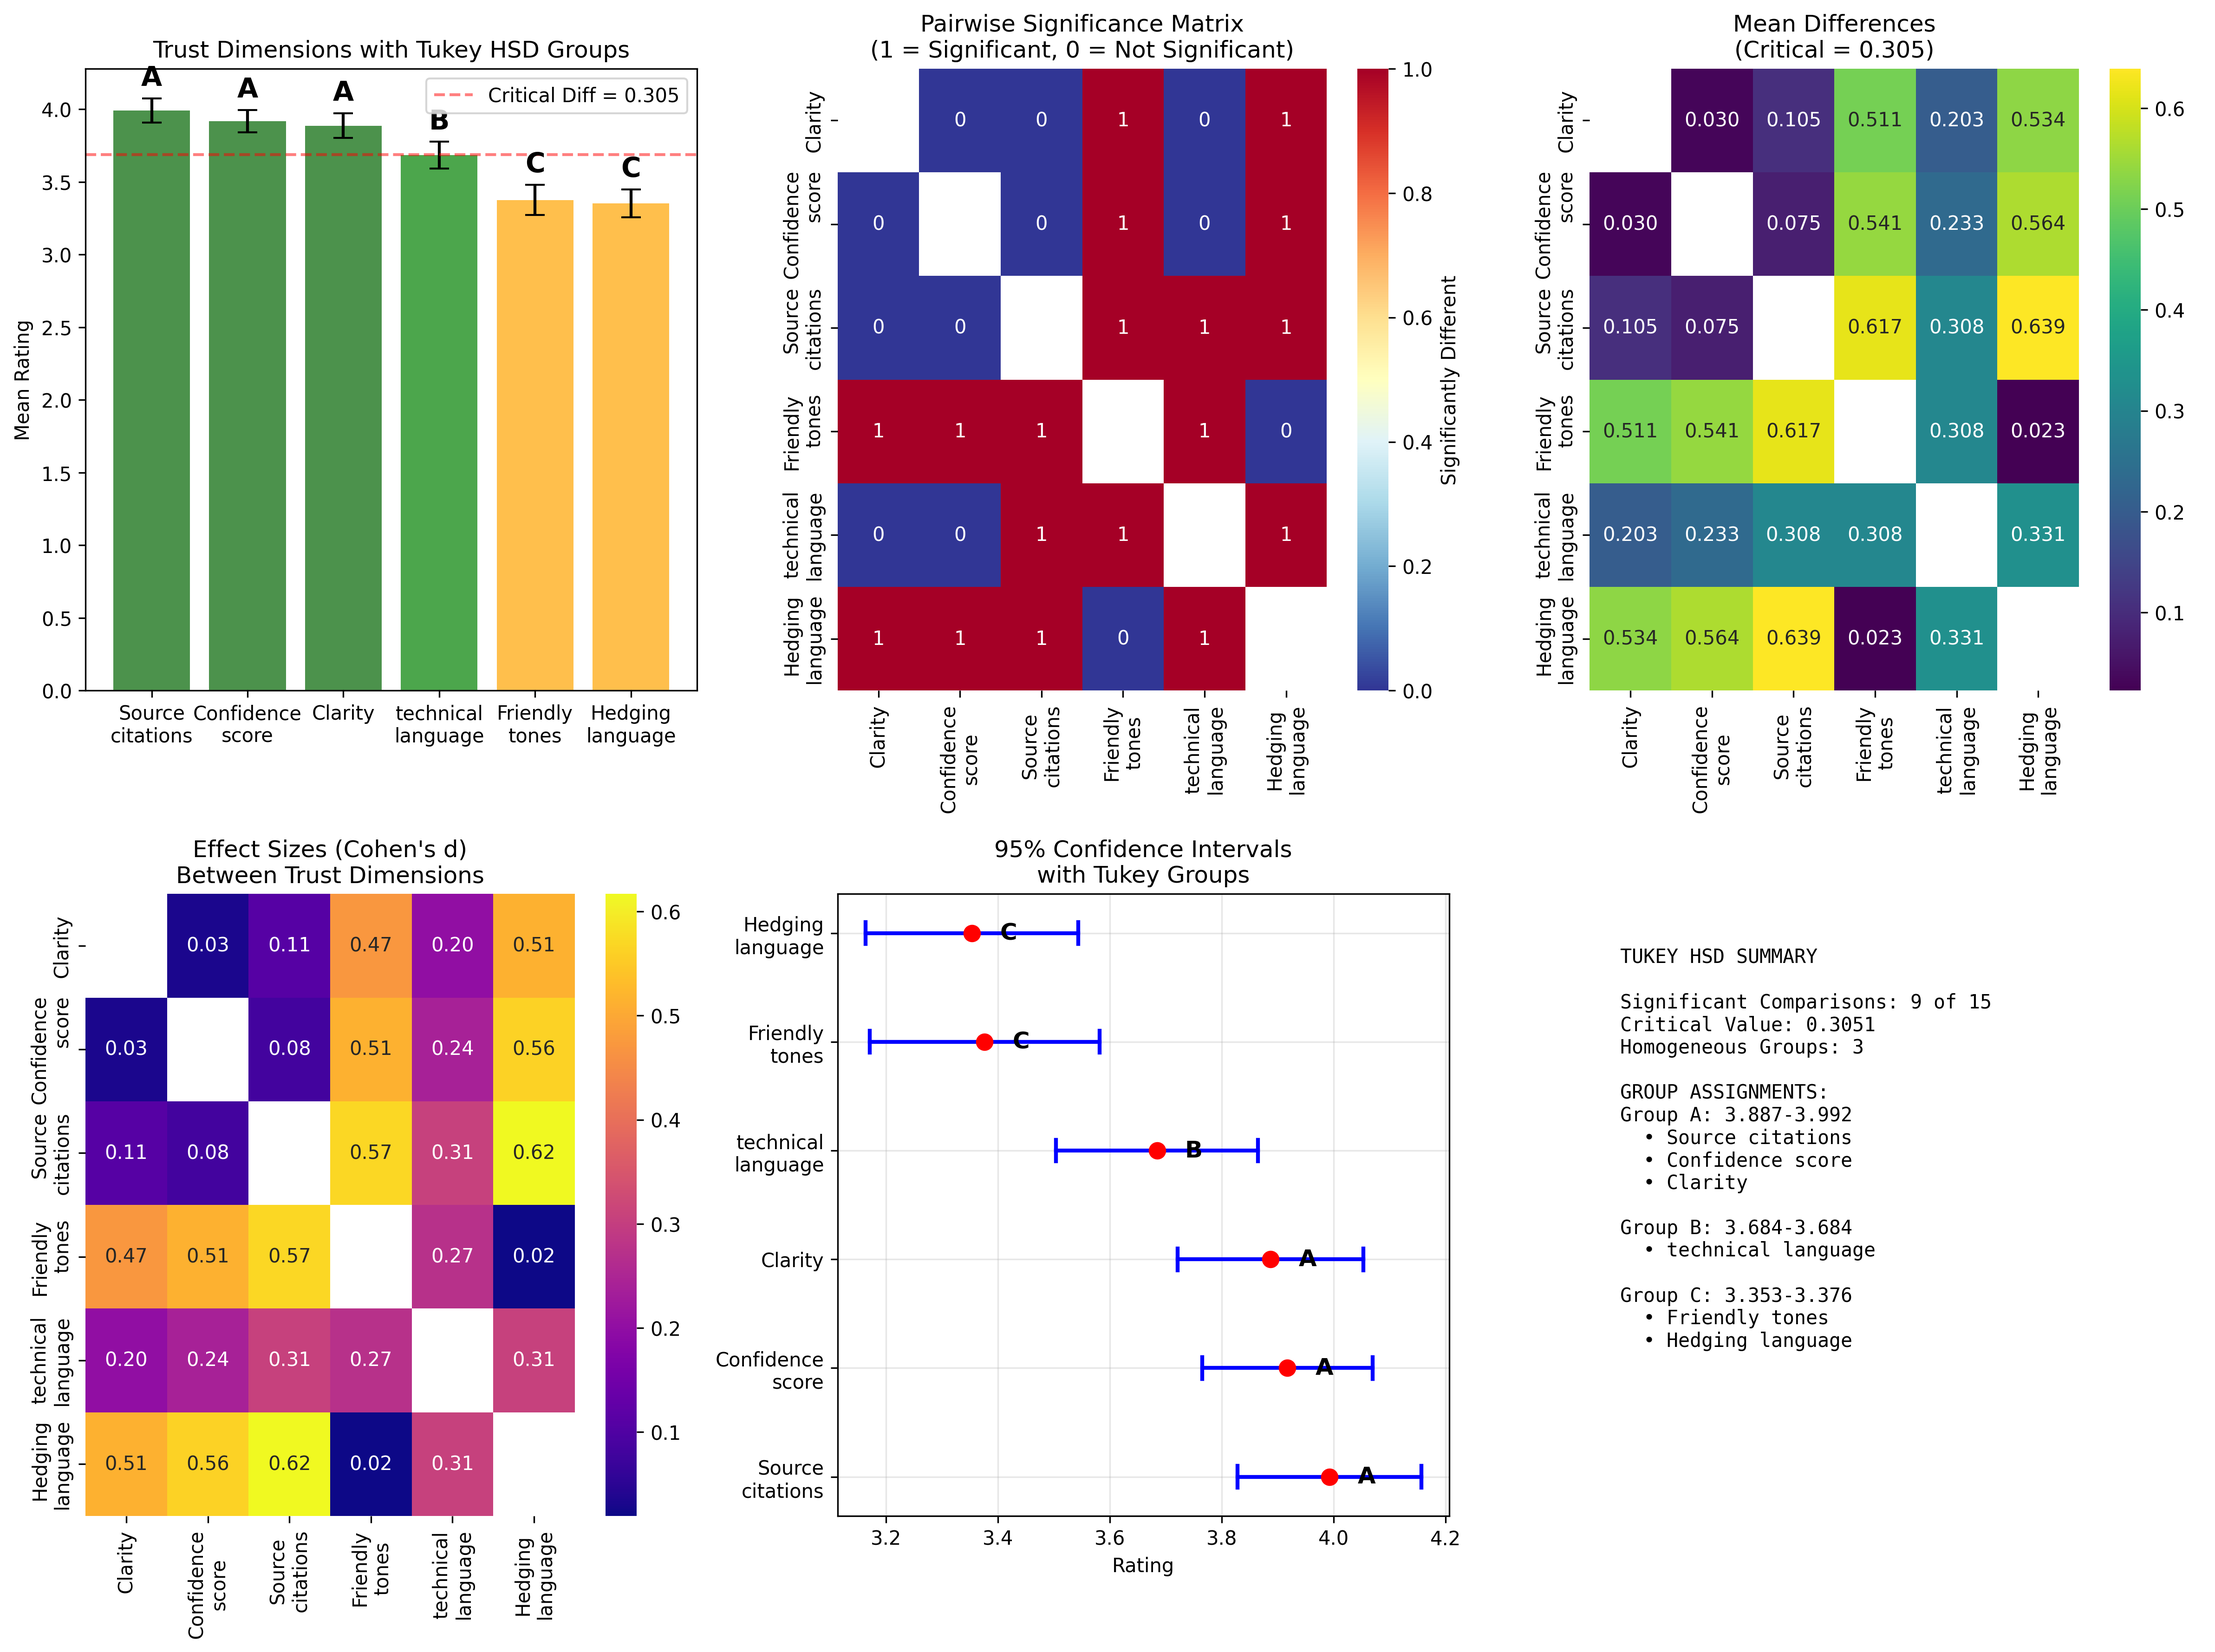
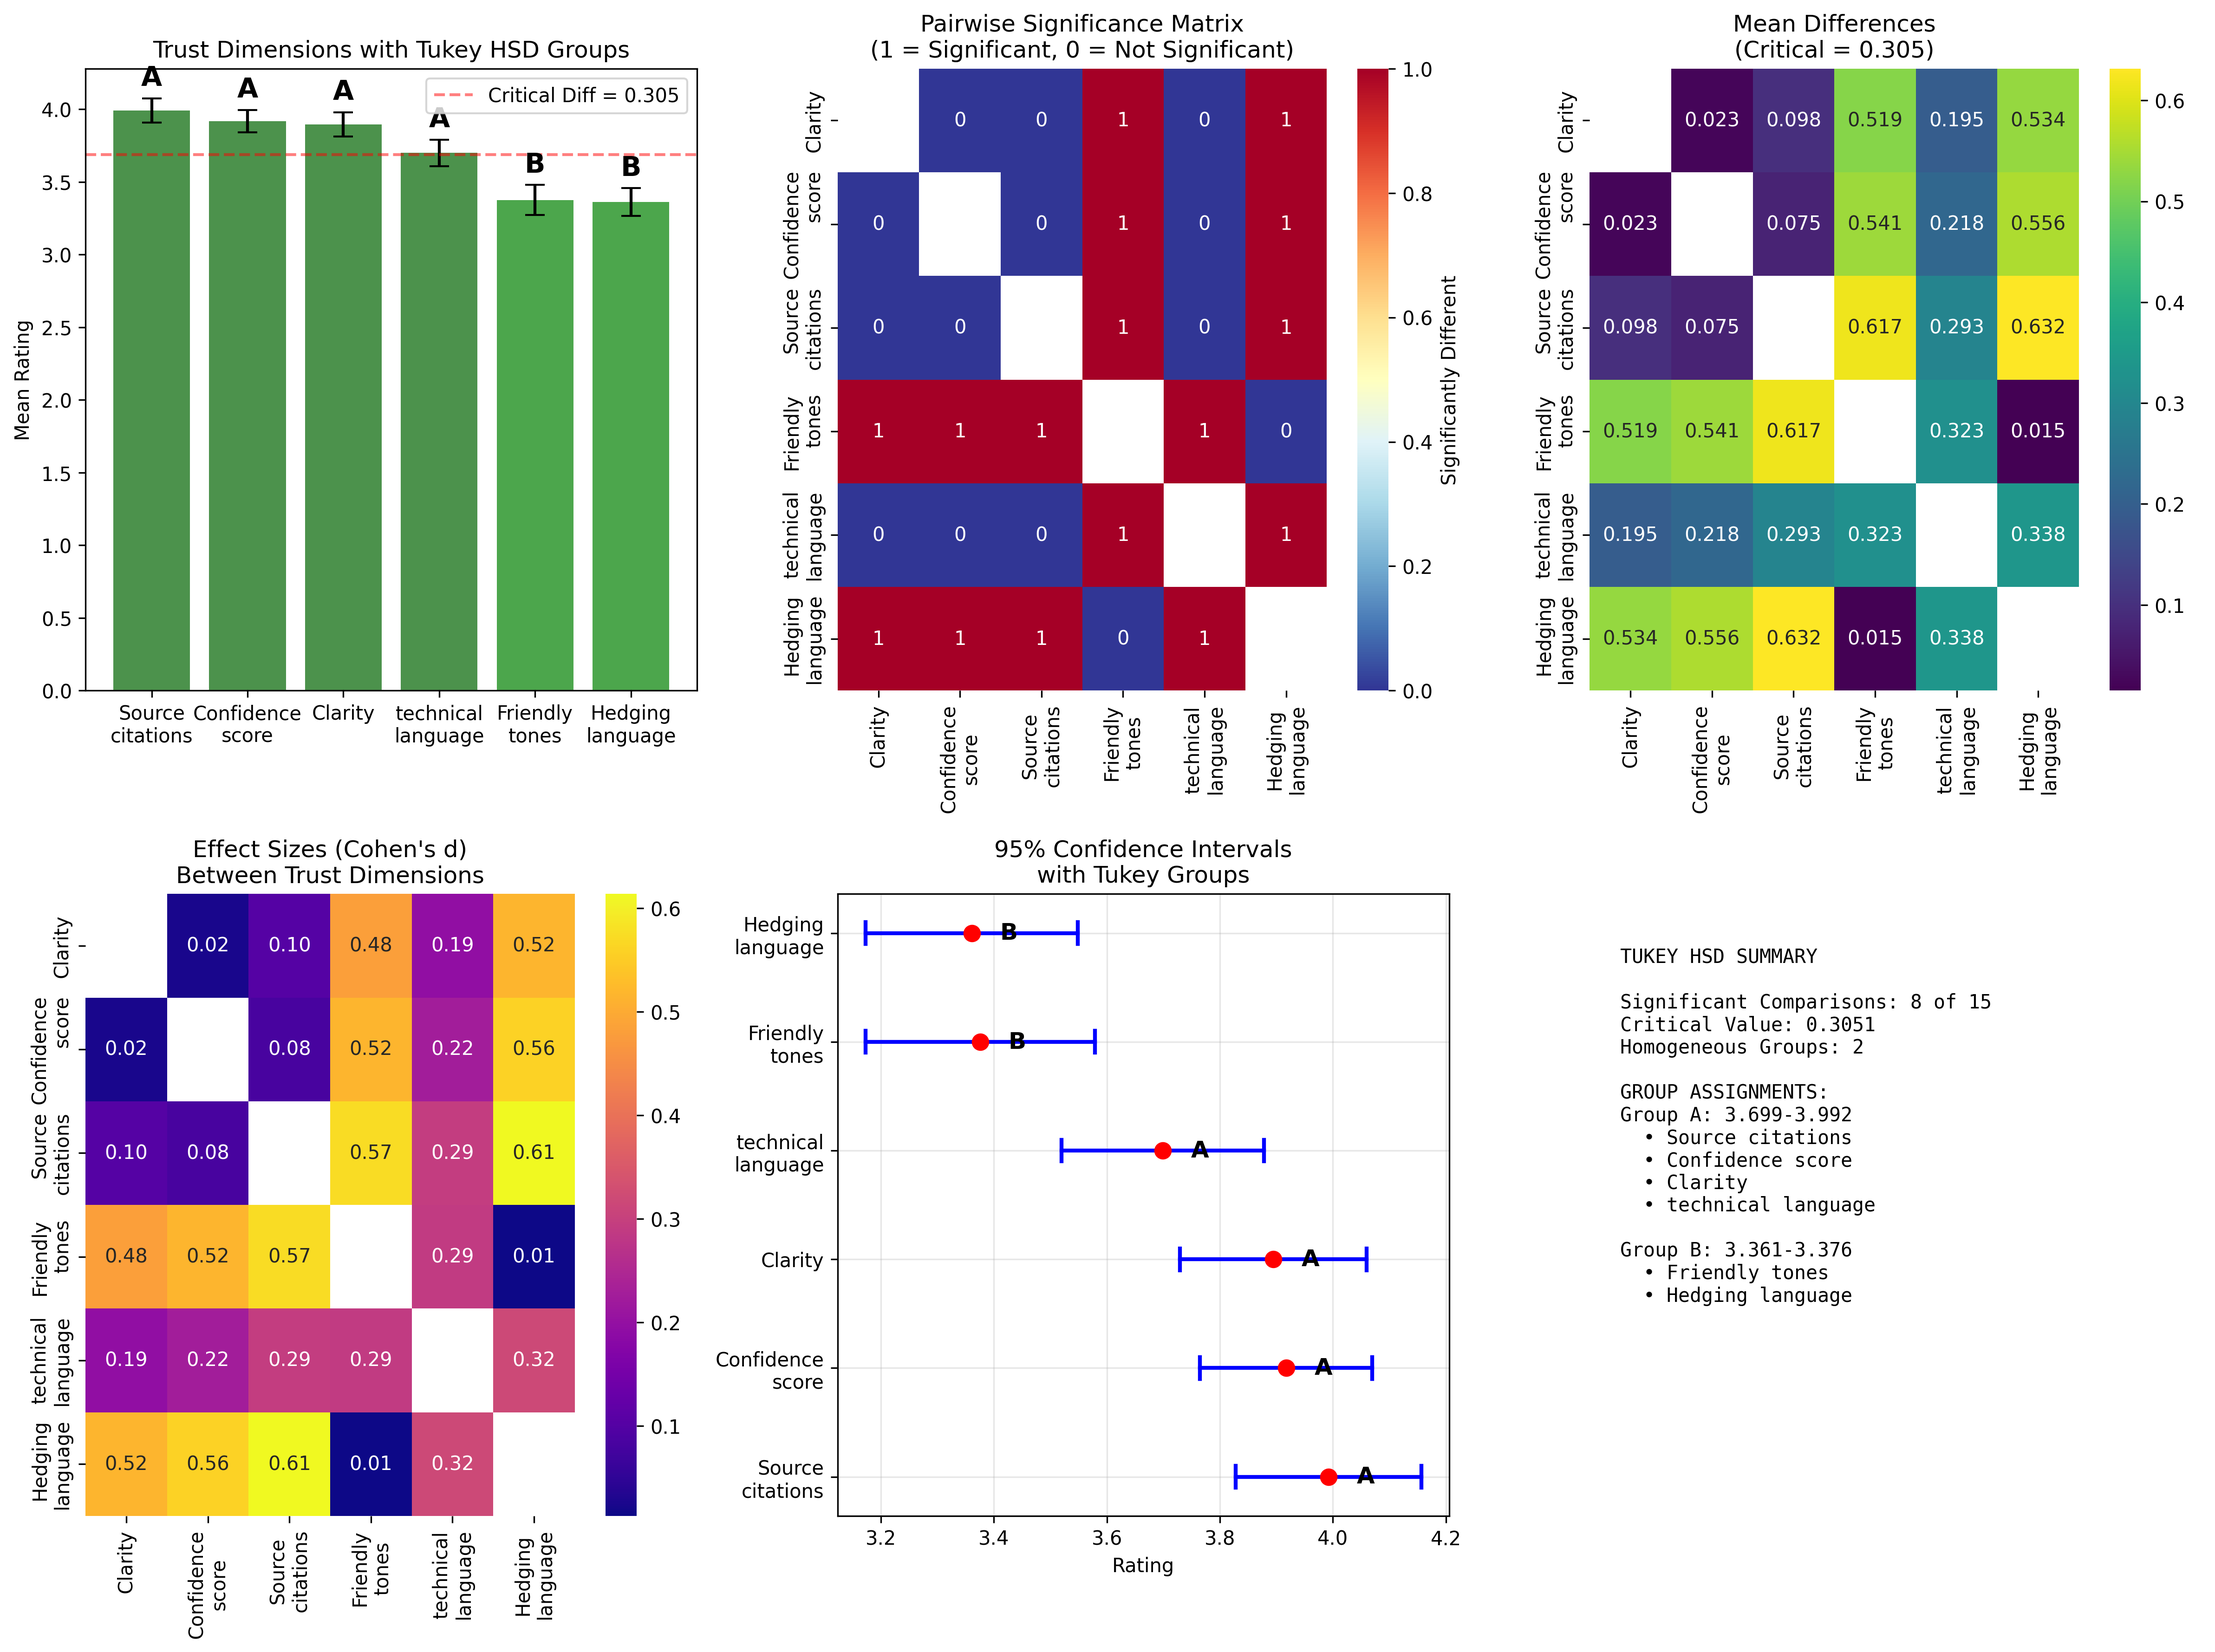
NewCommit

diff --git a/Shapiro_wilk/09_tukeyHSD_heatmap.py b/Shapiro_wilk/09_tukeyHSD_heatmap.py
@@ -1,0 +1,50 @@
+import pandas as pd
+import numpy as np
+import matplotlib.pyplot as plt
+import seaborn as sns
+from statsmodels.stats.multicomp import pairwise_tukeyhsd
+
+# Step 1: Load your Excel dataset
+df = pd.read_excel("/All_LLM_Data_everything.xlsx")
+
+# Step 2: Reshape Gen3–Gen7 into long form
+gen_cols = ["Gen3", "Gen4", "Gen5", "Gen6", "Gen7"]
+long_df = df[gen_cols].melt(var_name="Factor", value_name="TrustScore").dropna()
+
+# Step 3: Run Tukey's HSD
+tukey = pairwise_tukeyhsd(endog=long_df["TrustScore"],
+                          groups=long_df["Factor"],
+                          alpha=0.05)
+
+# Step 4: Create results DataFrame
+results_df = pd.DataFrame(data=tukey._results_table.data[1:], columns=tukey._results_table.data[0])
+results_df.columns = ["Factor1", "Factor2", "Mean Diff", "p-adjusted", "Lower CI", "Upper CI", "Reject Ho"]
+results_df["Critical Value"] = 0.305  # Optional: to match your table style
+results_df = results_df[["Factor1", "Factor2", "Mean Diff", "Critical Value", "p-adjusted", "Lower CI", "Upper CI", "Reject Ho"]]
+
+# Step 5: Build symmetric p-value matrix for heatmap
+pivot_pvals = results_df.pivot(index="Factor1", columns="Factor2", values="p-adjusted")
+pval_matrix = pivot_pvals.copy()
+
+for i in pivot_pvals.index:
+    for j in pivot_pvals.columns:
+        if pd.notna(pivot_pvals.at[i, j]):
+            pval_matrix.at[j, i] = pivot_pvals.at[i, j]
+
+# Fill diagonal and missing values with 1 (non-significant)
+for label in gen_cols:
+    pval_matrix.at[label, label] = 1.0
+pval_matrix.fillna(1.0, inplace=True)
+
+# Step 6: Plot heatmap
+plt.figure(figsize=(8, 6))
+sns.heatmap(pval_matrix.astype(float), annot=True, fmt=".3f", cmap="coolwarm_r", cbar_kws={'label': 'p-adjusted'})
+plt.title("Tukey HSD Pairwise p-values (Gen3–Gen7)")
+plt.tight_layout()
+plt.show()
+
+# Step 7: Optional — export table
+# results_df.to_excel("Tukey_HSD_Gen3toGen7.xlsx", index=False)
+
+# Step 8: Show results in console
+print(results_df.round(4))

diff --git a/Shapiro_wilk/08_PCA_screePlot.py b/Shapiro_wilk/08_PCA_screePlot.py
@@ -1,0 +1,40 @@
+import pandas as pd
+from sklearn.decomposition import PCA
+from sklearn.preprocessing import StandardScaler
+import matplotlib.pyplot as plt
+import numpy as np
+
+# Step 1: Load the dataset
+df = pd.read_excel("All_LLM_Data_everything.xlsx", sheet_name="Sheet1")
+
+# Step 2: Select Gen3 to Gen8 columns and drop missing
+gen_cols = ["Gen3", "Gen4", "Gen5", "Gen6", "Gen7", "Gen8"]
+gen_data = df[gen_cols].dropna()
+
+# Step 3: Standardize the data
+scaler = StandardScaler()
+gen_scaled = scaler.fit_transform(gen_data)
+
+# Step 4: Run PCA
+pca = PCA()
+pca.fit(gen_scaled)
+
+# Step 5: Scree Plot
+explained_variance = pca.explained_variance_ratio_
+plt.figure(figsize=(8, 5))
+plt.plot(range(1, len(explained_variance) + 1), explained_variance, 'o-', linewidth=2)
+plt.title('Scree Plot for Gen3–Gen8')
+plt.xlabel('Principal Component')
+plt.ylabel('Explained Variance Ratio')
+plt.grid(True)
+plt.xticks(range(1, len(explained_variance) + 1))
+plt.tight_layout()
+plt.show()
+
+# Step 6: Compute Loadings
+loadings = pca.components_.T * np.sqrt(pca.explained_variance_)
+loadings_df = pd.DataFrame(loadings, index=gen_cols, columns=[f"PC{i+1}" for i in range(loadings.shape[1])])
+
+# Display loadings
+print("\nPCA Loadings (Gen3–Gen8):")
+print(loadings_df.round(3))

diff --git a/Statistical Analysis/04_hist_updatedPlot.py b/Statistical Analysis/04_hist_updatedPlot.py
@@ -3,6 +3,8 @@ import matplotlib.pyplot as plt
 import seaborn as sns
 import matplotlib as mpl
 import numpy as np
+import os
+print("Current working directory:", os.getcwd())
 
 # Load your data
 #df = pd.read_excel("AnalysisForGPT.xlsx")
@@ -10,8 +12,8 @@ df=pd.read_csv("AnalysisForGPTn.csv")  # Use CSV for consistency with other scri
 
 # Verify column names and then set these exactly:
 #questions = ["Gen3", "Gen4", "Gen5", "Gen6", "Gen7", "Gen8"]
-questions = ["Gen3", "Gen4", "Gen5", "Gen6", "Gen7"]
-influencers=["Clarity","Confidence Score","Sources Citation", "Friendly Tone","Technical language"]
+questions = ["Gen3", "Gen4", "Gen5", "Gen6", "Gen7","Gen8"]
+influencers=["Clarity","Confidence Score","Sources Citation", "Friendly Tone","Technical language","Hedging"]
 
 # 2) Make axes
 fig, axes = plt.subplots(2, 3, figsize=(14, 8), sharey=True)
@@ -41,7 +43,7 @@ for ax, q,r  in zip(axes, questions, influencers):
     ax.set_xticks(range(5))
     ax.set_xticklabels(["1","2","3","4","5"])
 
-    ax.set_ylim(0, 70)  # extend y-axis for clarity
+    ax.set_ylim(0, 90)  # extend y-axis for clarity
     ax.set_yticklabels([])
 
     # annotate

diff --git a/Statistical Analysis/14_PostHocTukey_for_influence.py b/Statistical Analysis/14_PostHocTukey_for_influence.py
@@ -18,7 +18,7 @@ def run_tukey_hsd_analysis():
     """
     
     # Load data
-    df = pd.read_csv('trust_influencers_july29th.csv')
+    df = pd.read_csv('trust_influencers_July31st.csv')
     
     trust_dimensions = [
         'Clarity',
